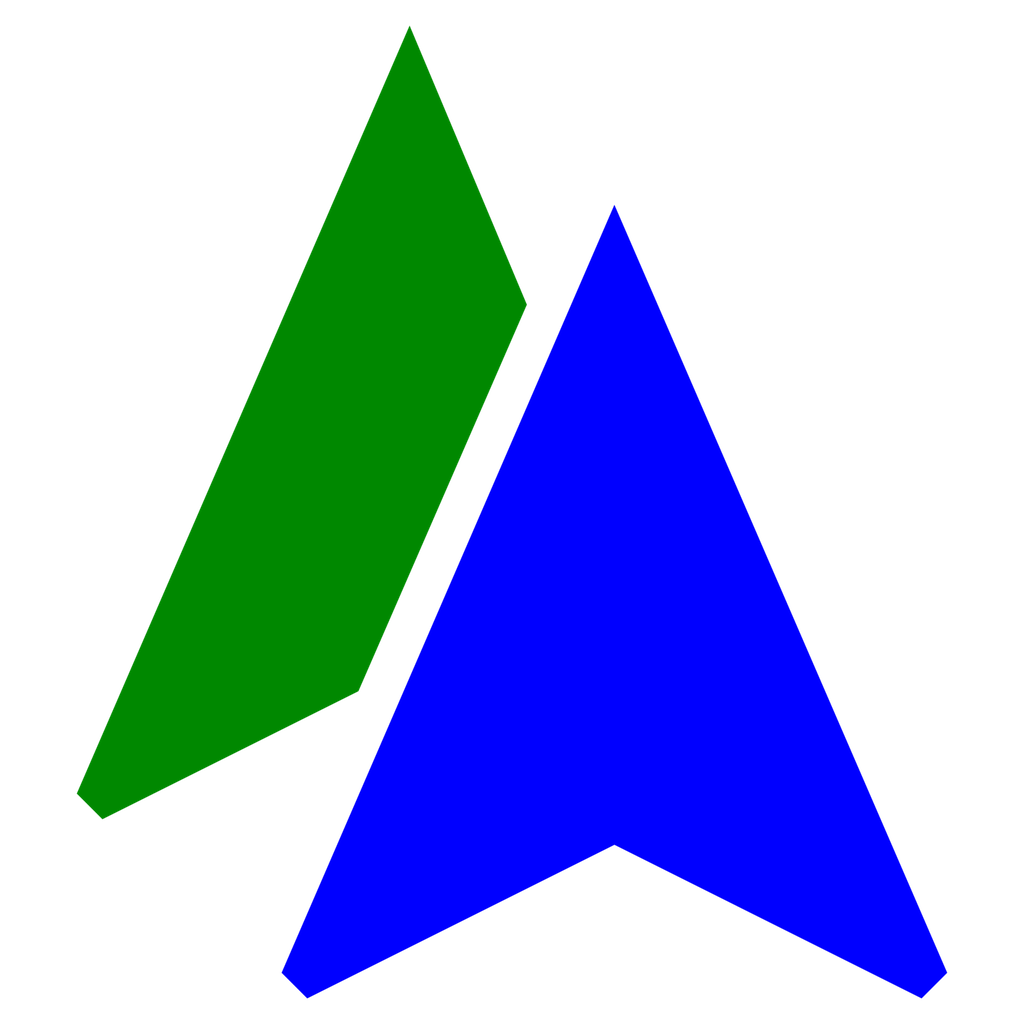
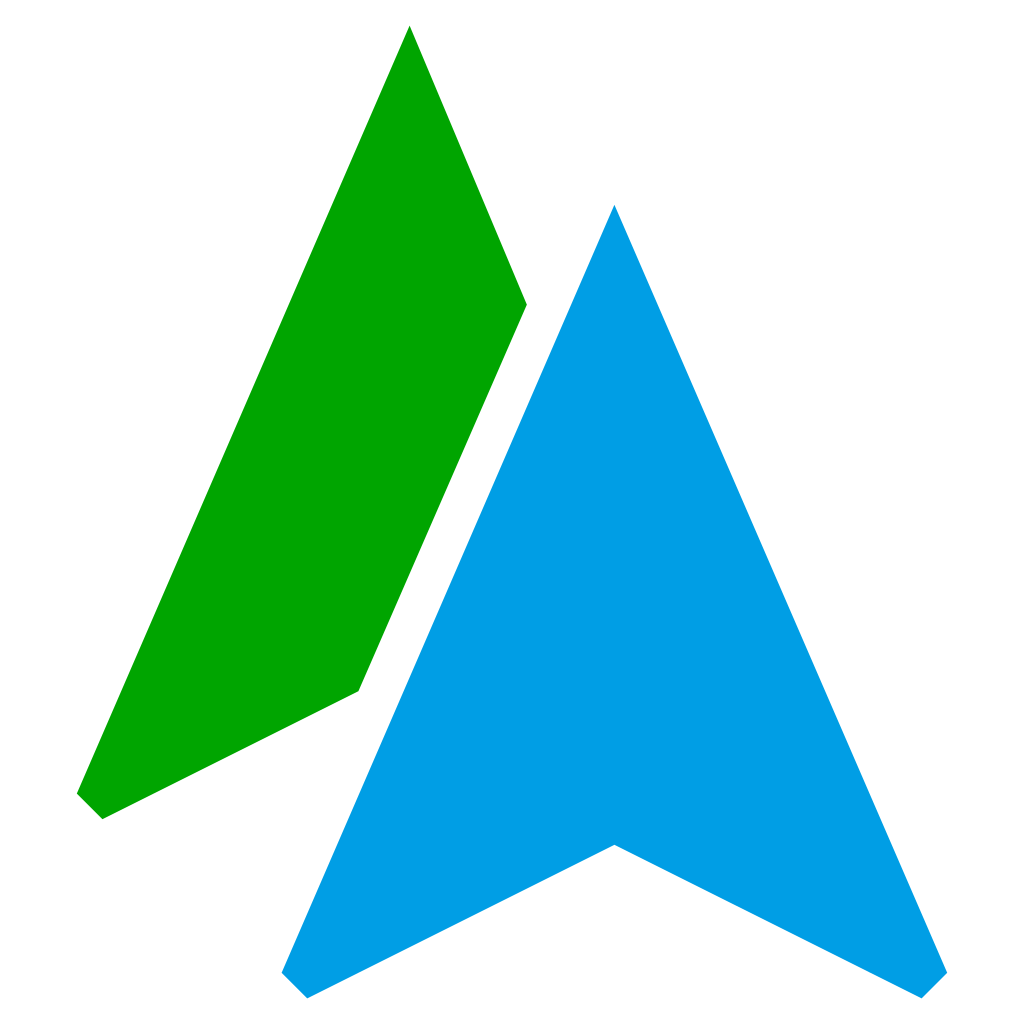
External development stage 50

diff --git a/WhereAmINowServer/src/main/webapp/js/tracking/Main.js b/WhereAmINowServer/src/main/webapp/js/tracking/Main.js
@@ -61,6 +61,7 @@
     preloaded = function(){
         window.u = new Utils();
 
+        main.appName = "Waytogo";
         main.layout = u.create("div", {className:"layout"}, document.body);
 
         loading = u.create("div", {style:{
@@ -126,19 +127,22 @@
         u.create(HTML.LINK, {rel:"apple-touch-icon", sizes:"120x120", href:"/icons/apple-touch-icon-120x120.png"},document.head);
         u.create(HTML.LINK, {rel:"apple-touch-icon", sizes:"152x152", href:"/icons/apple-touch-icon-152x152.png"},document.head);
         u.create(HTML.LINK, {rel:"apple-touch-icon", sizes:"180x180", href:"/icons/apple-touch-icon.png"},document.head);
+        u.create(HTML.LINK, {rel:"icon", type:"image/png", sizes:"192x192", href:"/icons/android-chrome-192x192.png"},document.head);
         u.create(HTML.LINK, {rel:"icon", type:"image/png", sizes:"32x32", href:"/icons/favicon-32x32.png"},document.head);
         u.create(HTML.LINK, {rel:"icon", type:"image/png", sizes:"16x16", href:"/icons/favicon-16x16.png"},document.head);
+        u.create(HTML.LINK, {rel:"icon", type:"image/png", sizes:"194x194", href:"/icons/favicon-194x194.png"},document.head);
         u.create(HTML.LINK, {rel:"manifest", href:"/icons/manifest.json"},document.head);
-        u.create(HTML.LINK, {rel:"mask-icon", href:"/icons/safari-pinned-tab.svg", color:"#007574"},document.head);
+        u.create(HTML.LINK, {rel:"mask-icon", href:"/icons/safari-pinned-tab.svg", color:"#00aaaa"},document.head);
         u.create(HTML.LINK, {rel:"shortcut icon", href:"/icons/favicon.ico"},document.head);
         u.create(HTML.LINK, {rel:"apple-touch-startup-image", href: "/icons/apple-touch-icon.png"},document.head);
+        u.create(HTML.META, {name:"apple-mobile-web-app-title", content:main.appName},document.head);
         u.create(HTML.META, {name:"apple-mobile-web-app-capable", content:"yes"},document.head);
         u.create(HTML.META, {name:"mobile-web-app-capable", content:"yes"},document.head);
-        u.create(HTML.META, {name:"application-name", content:"Waytogo"},document.head);
-        u.create(HTML.META, {name:"msapplication-TileColor", content:"#059c9a"},document.head);
+        u.create(HTML.META, {name:"application-name", content:main.appName},document.head);
+        u.create(HTML.META, {name:"msapplication-TileColor", content:"#00aaaa"},document.head);
         u.create(HTML.META, {name:"msapplication-TileImage", content:"/icons/mstile-144x144.png"},document.head);
         u.create(HTML.META, {name:"msapplication-config", content:"/icons/browserconfig.xml"},document.head);
-        u.create(HTML.META, {name:"theme-color", content:"#94e6e5"},document.head);
+        u.create(HTML.META, {name:"theme-color", content:"#aaeeee"},document.head);
 
         loadScripts.call(main);
     }

diff --git a/WhereAmINowServer/src/main/webapp/js/admin/Main.js b/WhereAmINowServer/src/main/webapp/js/admin/Main.js
@@ -92,42 +92,42 @@ function Main() {
 
     function resume() {
         try {
-        window.addEventListener("load",function() { setTimeout(function(){ // This hides the address bar:
-            window.scrollTo(0, 1); }, 0);
-        });
+            window.addEventListener("load",function() { setTimeout(function(){ // This hides the address bar:
+                window.scrollTo(0, 1); }, 0);
+            });
 
-        var out = u.create("div", {className:"layout"}, document.body);
-        menu = u.create("div", {className:"menu", tabindex: 1, onblur: function(){
-            menu.classList.remove("menu-open");
-            return true;
-        }}, out);
-        var right = u.create("div", {className:"right"}, out);
+            var out = u.create("div", {className:"layout"}, document.body);
+            menu = u.create("div", {className:"menu", tabindex: 1, onblur: function(){
+                menu.classList.remove("menu-open");
+                return true;
+            }}, out);
+            var right = u.create("div", {className:"right"}, out);
 
-        u.create("a", { href: "/", className:"logo" }, menu);
+            u.create("a", { href: "/", className:"logo" }, menu);
 
-        for(var i in holderFiles) {
-            var x = holderFiles[i].toLowerCase();
-            if(holders[x] && holders[x].menu) {
-                var th = u.create("div", {className:"menu-item"}, menu);
-                u.create("i", { className:"material-icons md-14", innerHTML: holders[x].icon }, th);
-                u.create("div", { dataStart: x, onclick: function(){
-                    menu.blur();
-                    holders[this.dataset.start].start();
-                    return false;
-                }, innerHTML: holders[x].menu}, th);
+            for(var i in holderFiles) {
+                var x = holderFiles[i].toLowerCase();
+                if(holders[x] && holders[x].menu) {
+                    var th = u.create("div", {className:"menu-item"}, menu);
+                    u.create("i", { className:"material-icons md-14", innerHTML: holders[x].icon }, th);
+                    u.create("div", { dataStart: x, onclick: function(){
+                        menu.blur();
+                        holders[this.dataset.start].start();
+                        return false;
+                    }, innerHTML: holders[x].menu}, th);
+                }
             }
-        }
 
-        th = u.create("div", {className:"menu-item"}, menu);
-        u.create("i", { className:"material-icons md-14", innerHTML:"exit_to_app" }, th);
-        u.create("div", { onclick: logout, innerHTML: "Log out" }, th);
+            th = u.create("div", {className:"menu-item"}, menu);
+            u.create("i", { className:"material-icons md-14", innerHTML:"exit_to_app" }, th);
+            u.create("div", { onclick: logout, innerHTML: "Log out" }, th);
 
-        th = u.create("div", { className:"menu-bottom"}, menu);
-        u.create("div", "Waytogo &copy;2017 WTG", th);
-        u.create("div", "Build " + data.version, th);
+            th = u.create("div", { className:"menu-bottom"}, menu);
+            u.create("div", main.appName + " &copy;2017 WTG", th);
+            u.create("div", "Build " + data.version, th);
 
-        holders[data.page].start();
-//        u.create("iframe", { name: "set", src: "/admin/"+data.page, frameBorder: 0 }, content);
+            holders[data.page].start();
+    //        u.create("iframe", { name: "set", src: "/admin/"+data.page, frameBorder: 0 }, content);
 
         } catch(e) {
             console.error(e);

diff --git a/WhereAmINowServer/src/main/webapp/js/holders/CameraHolder.js b/WhereAmINowServer/src/main/webapp/js/holders/CameraHolder.js
@@ -128,37 +128,35 @@ function CameraHolder(main) {
 //                menuFitToScreen.classList.remove("disabled");
                 break;
             case EVENTS.CAMERA_ZOOM:
+
                 if(main.users.getCountSelected()==1) {
-                    maxZoomService.getMaxZoomAtLatLng(main.map.getCenter(), function(response) {
-                        if (response.status !== google.maps.MaxZoomStatus.OK) {
-                        } else {
-                            main.users.forAllUsers(function (number, user) {
-                                if(user.properties.selected) {
-                                    if(!object) {
-                                        var z = user.views.camera.zoom;
-                                        if(z > response.zoom) z = response.zoom;
-                                        var zooms = [CAMERA_DEFAULT_ZOOM, CAMERA_DEFAULT_ZOOM + 2, CAMERA_DEFAULT_ZOOM + 4, CAMERA_DEFAULT_ZOOM - 2, CAMERA_DEFAULT_ZOOM - 4, CAMERA_DEFAULT_ZOOM];
-                                        var index = zooms.indexOf(z);
-                                        object = zooms[index+1];
-                                    }
-                                    user.views.camera.zoom = object;
-                                }
-                            });
+                    main.users.forAllUsers(function (number, user) {
+                        if(user.properties.selected) {
+                            if(!object) {
+                                var z = user.views.camera.zoom;
+                                var zooms = [CAMERA_DEFAULT_ZOOM, CAMERA_DEFAULT_ZOOM + 2, CAMERA_DEFAULT_ZOOM + 4, CAMERA_DEFAULT_ZOOM - 2, CAMERA_DEFAULT_ZOOM - 4, CAMERA_DEFAULT_ZOOM];
+                                var index = zooms.indexOf(z);
+                                object = zooms[index+1];
+                            }
+                            user.views.camera.zoom = object;
                         }
                     });
                 }
-                setTimeout(function(){
-                    maxZoomService.getMaxZoomAtLatLng(main.map.getCenter(), function(response) {
-                        if (response.status !== google.maps.MaxZoomStatus.OK) {
-//                            console.error('Error in MaxZoomService',response);
-                        } else {
-                            if(object && object > response.zoom) object = response.zoom;
-                            if(main.map.getZoom() != object) {
-                                main.map.setZoom(Math.round(object));
+                if(this && this.properties && this.properties.selected) {
+                    setTimeout(function(){
+                        maxZoomService.getMaxZoomAtLatLng(main.map.getCenter(), function(response) {
+                console.log(object);
+                            if (response.status !== google.maps.MaxZoomStatus.OK) {
+    //                            console.error('Error in MaxZoomService',response);
+                            } else {
+                                if(object && object > response.zoom) object = response.zoom;
+                                if(main.map.getZoom() != object) {
+                                    main.map.setZoom(Math.round(object));
+                                }
                             }
-                        }
-                    });
-                },0);
+                        });
+                    },0);
+                }
                 break;
             case EVENTS.CAMERA_UPDATE:
                 update()

diff --git a/WhereAmINowServer/src/main/webapp/js/holders/TrackingHolder.js b/WhereAmINowServer/src/main/webapp/js/holders/TrackingHolder.js
@@ -98,6 +98,7 @@ function TrackingHolder(main) {
                 drawerItemShare.classList.add("disabled");
                 break;
             case EVENTS.TRACKING_ACTIVE:
+                document.title = main.appName + " - " + main.tracking.getToken();
                 if(main.tracking.getStatus() == EVENTS.TRACKING_ACTIVE && drawerItemShare) {
                     drawerItemShare.classList.remove("disabled");
                 }
@@ -107,6 +108,7 @@ function TrackingHolder(main) {
                 }
                 break;
             case EVENTS.TRACKING_CONNECTING:
+                document.title = "Connecting - " + main.appName;
                 drawerItemNew.classList.add("hidden");
                 drawerItemShare.classList.remove("hidden");
                 drawerItemShare.classList.remove("disabled");
@@ -117,18 +119,20 @@ function TrackingHolder(main) {
                 }
                 break;
             case EVENTS.TRACKING_RECONNECTING:
-                    drawerItemNew.classList.add("hidden");
-                    drawerItemShare.classList.remove("hidden");
-                    drawerItemShare.classList.remove("disabled");
-                    drawerItemExit.classList.remove("hidden");
+                document.title = "Connecting - " + main.appName;
+                drawerItemNew.classList.add("hidden");
+                drawerItemShare.classList.remove("hidden");
+                drawerItemShare.classList.remove("disabled");
+                drawerItemExit.classList.remove("hidden");
                 if (!wakeLockEnabled) {
                     noSleep.enable(); // keep the screen on!
                     wakeLockEnabled = true;
                 }
                 break;
             case EVENTS.TRACKING_DISABLED:
-                    drawerItemShare.classList.add("disabled");
-                    drawerItemExit.classList.add("hidden");
+                document.title = main.appName;
+                drawerItemShare.classList.add("disabled");
+                drawerItemExit.classList.add("hidden");
                 if (wakeLockEnabled) {
                     noSleep.disable(); // let the screen turn off.
                     wakeLockEnabled = false;
@@ -153,7 +157,7 @@ function TrackingHolder(main) {
                     positive: {
                         label: "OK",
                         onclick: function() {
-                            window.open("mailto:?subject=Follow%20me%20at%20Waytogo&body="+main.tracking.getTrackingUri(),"_blank");
+                            window.open("mailto:?subject=Follow%20me%20at%20Waytogo.us&body="+main.tracking.getTrackingUri(),"_blank");
                         }
                     },
                     negative: {

diff --git a/WhereAmINowServer/src/main/webapp/js/holders/DrawerHolder.js b/WhereAmINowServer/src/main/webapp/js/holders/DrawerHolder.js
@@ -46,12 +46,12 @@ function DrawerHolder(main) {
             }
         },onfocus:function(){}}, actionbar);
         var label = u.create(HTML.DIV, {className:"actionbar-label"}, actionbar);
-        title = u.create(HTML.DIV, {className:"actionbar-label-title", innerHTML:"Waytogo"}, label);
+        title = u.create(HTML.DIV, {className:"actionbar-label-title", innerHTML:main.appName}, label);
         subtitle = u.create(HTML.DIV, {className:"actionbar-label-subtitle hidden"}, label);
 
         var header = u.create(HTML.DIV, { className:"drawer-header" }, drawerLayout);
         headerName = u.create(HTML.DIV, {className:"drawer-header-name"}, header);
-        headerTitle = u.create(HTML.DIV, {className:"drawer-header-title", innerHTML:"Waytogo"}, header);
+        headerTitle = u.create(HTML.DIV, {className:"drawer-header-title", innerHTML:main.appName}, header);
         u.create(HTML.DIV, {className:"drawer-header-subtitle", innerHTML:"Be always on the same way\nwith your friends"}, header);
 
         menu = u.create(HTML.DIV, {className:"menu"}, drawerLayout);
@@ -80,7 +80,7 @@ function DrawerHolder(main) {
         // u.create("div", { onclick: logout, innerHTML: "Log out" }, th);*/
 
         var th = u.create(HTML.DIV, { className:"drawer-footer"}, drawerLayout);
-        u.create(HTML.DIV, "Waytogo &copy;2017 WTG", th);
+        u.create(HTML.DIV, main.appName + " &copy;2017 WTG", th);
         u.create(HTML.DIV, "Build " + data.version, th);
 
     };
@@ -137,8 +137,8 @@ function DrawerHolder(main) {
                 break;
             case EVENTS.TRACKING_ACTIVE:
             case EVENTS.TRACKING_DISABLED:
-                title.innerHTML = "Waytogo";
-                headerTitle.innerHTML = "Waytogo";
+                title.innerHTML = main.appName;
+                headerTitle.innerHTML = main.appName;
                 break;
             case EVENTS.TRACKING_CONNECTING:
             case EVENTS.TRACKING_RECONNECTING:

diff --git a/WhereAmINowServer/src/main/webapp/js/holders/MapHolder.js b/WhereAmINowServer/src/main/webapp/js/holders/MapHolder.js
@@ -54,7 +54,7 @@ function MapHolder(main) {
         u.label.prototype = new google.maps.OverlayView;
         main.fire(EVENTS.MAP_READY);
         main.map.addListener("zoom_changed", function() {
-            main.fire(EVENTS.CAMERA_ZOOM, map.getZoom());
+            main.fire(EVENTS.CAMERA_ZOOM, main.map.getZoom());
         });
     }
 

diff --git a/WhereAmINowServer/src/main/webapp/js/helpers/TrackingFB.js b/WhereAmINowServer/src/main/webapp/js/helpers/TrackingFB.js
@@ -474,6 +474,7 @@ function TrackingFB(main) {
         getTrackingUri:getTrackingUri,
         getStatus:getStatus,
         setStatus:setStatus,
+        getToken:getToken,
         sendMessage:sendMessage,
         put:put,
         sendUpdate:sendUpdate,
